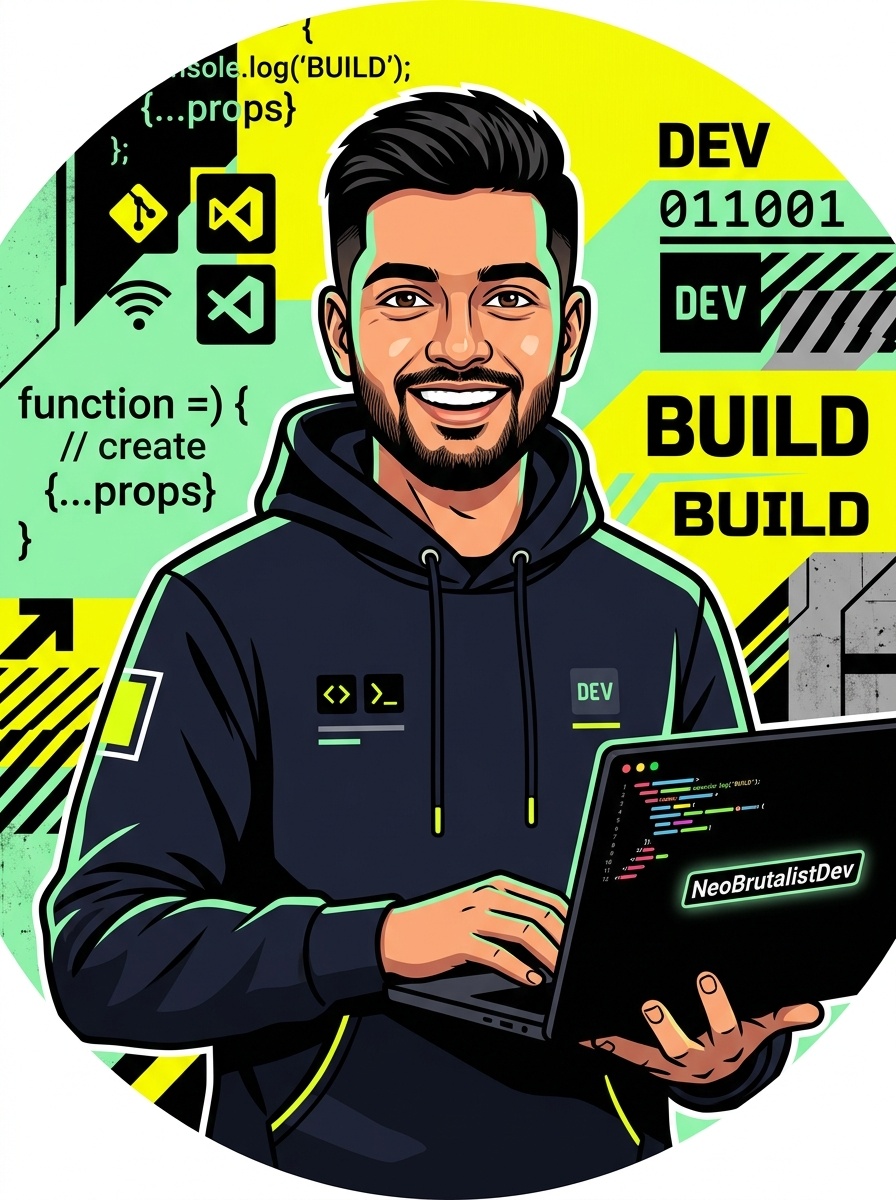
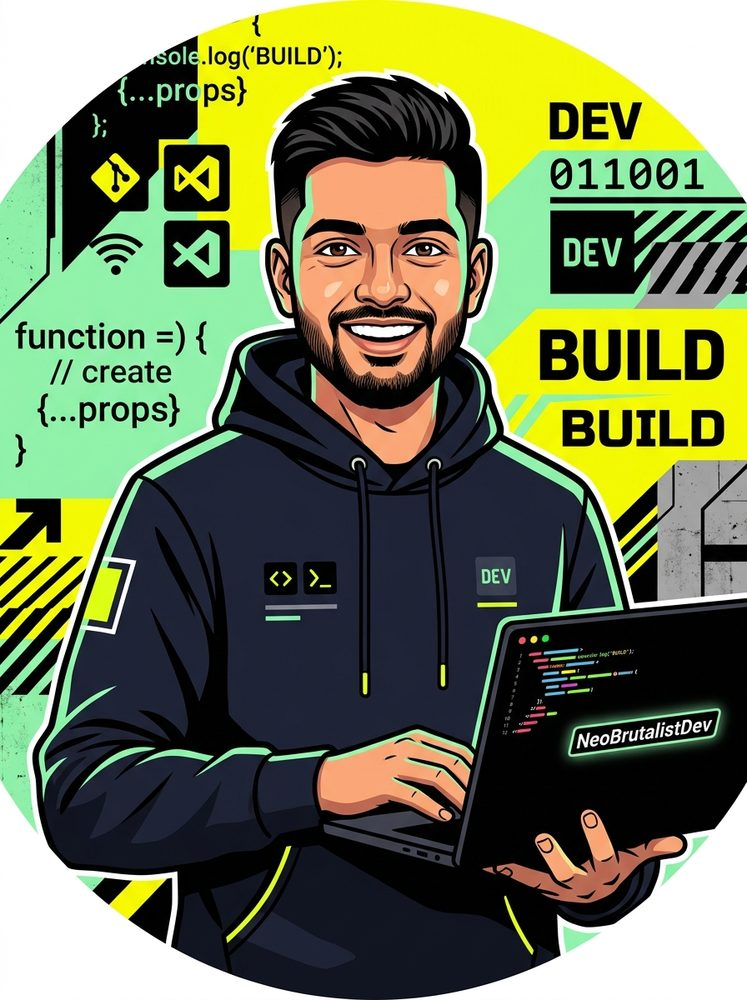
perf: optimize images, eliminate render-blocking fonts, implement SWR db cache, and boost accessibility to 100

diff --git a/src/core/context/PortfolioContext.tsx b/src/core/context/PortfolioContext.tsx
@@ -28,12 +28,52 @@ interface PortfolioContextType {
   skipLoading: () => void;
 }
 
+const STORAGE_KEY = "swaraj_portfolio_live_cache";
+
 const PortfolioContext = createContext<PortfolioContextType | undefined>(undefined);
 
 export const PortfolioProvider: React.FC<{ children: React.ReactNode }> = ({ children }) => {
-  const [data, setData] = useState<PortfolioData | null>(null);
-  const [isLoading, setIsLoading] = useState<boolean>(true);
-  const [isMongoConnected, setIsMongoConnected] = useState<boolean>(false);
+  const [data, setData] = useState<PortfolioData | null>(() => {
+    try {
+      if (typeof window !== "undefined") {
+        const cached = localStorage.getItem(STORAGE_KEY);
+        if (cached) {
+          const parsed = JSON.parse(cached);
+          if (parsed && parsed.personal) return parsed;
+        }
+      }
+    } catch {
+      // Ignore storage read errors
+    }
+    return null;
+  });
+
+  const [isLoading, setIsLoading] = useState<boolean>(() => {
+    try {
+      if (typeof window !== "undefined") {
+        const cached = localStorage.getItem(STORAGE_KEY);
+        if (cached) {
+          const parsed = JSON.parse(cached);
+          if (parsed && parsed.personal) return false;
+        }
+      }
+    } catch {
+      // Fallback to loading
+    }
+    return true;
+  });
+
+  const [isMongoConnected, setIsMongoConnected] = useState<boolean>(() => {
+    try {
+      if (typeof window !== "undefined" && localStorage.getItem(STORAGE_KEY)) {
+        return true;
+      }
+    } catch {
+      // Fallback
+    }
+    return false;
+  });
+
   const [error, setError] = useState<string | null>(null);
 
   const skipLoading = useCallback(() => {
@@ -41,7 +81,13 @@ export const PortfolioProvider: React.FC<{ children: React.ReactNode }> = ({ chi
   }, []);
 
   const fetchPortfolioFromMongo = useCallback(async () => {
-    setIsLoading(true);
+    // Only trigger full loading spinner if we don't already have data rendered
+    setData((current) => {
+      if (!current) {
+        setIsLoading(true);
+      }
+      return current;
+    });
     setError(null);
 
     const controller = new AbortController();
@@ -71,18 +117,30 @@ export const PortfolioProvider: React.FC<{ children: React.ReactNode }> = ({ chi
         setData(mongoData);
         setIsMongoConnected(true);
         setError(null);
+        try {
+          localStorage.setItem(STORAGE_KEY, JSON.stringify(mongoData));
+        } catch {
+          // Ignore quota/storage errors
+        }
       } else {
         throw new Error("Incomplete portfolio document structure in database");
       }
     } catch (err: unknown) {
       const fetchError = err as { name?: string; message?: string };
       console.error("MongoDB Atlas connection error:", fetchError.message || fetchError);
-      setIsMongoConnected(false);
-      setError(
-        fetchError.name === "AbortError"
-          ? "Database connection timed out. The server is waking up, please retry."
-          : "Could not load portfolio from MongoDB database."
-      );
+      
+      // If we don't have any data yet, surface the connection error
+      setData((current) => {
+        if (!current) {
+          setIsMongoConnected(false);
+          setError(
+            fetchError.name === "AbortError"
+              ? "Database connection timed out. The server is waking up, please retry."
+              : "Could not load portfolio from MongoDB database."
+          );
+        }
+        return current;
+      });
     } finally {
       clearTimeout(timeoutId);
       setIsLoading(false);
@@ -115,6 +173,11 @@ export const PortfolioProvider: React.FC<{ children: React.ReactNode }> = ({ chi
       if (response.ok) {
         setData(newData);
         setIsMongoConnected(true);
+        try {
+          localStorage.setItem(STORAGE_KEY, JSON.stringify(newData));
+        } catch {
+          // Ignore
+        }
         return true;
       } else {
         const errJson = await response.json().catch(() => ({}));

diff --git a/src/showcase/components/sections/CertificationsSection.tsx b/src/showcase/components/sections/CertificationsSection.tsx
@@ -21,6 +21,7 @@ import { usePortfolio } from "@/context/PortfolioContext";
 import { Award, ExternalLink, Star, Zap, ChevronLeft, ChevronRight, ChevronDown, ChevronUp } from "lucide-react";
 import FlipCard from "@/showcase/components/common/FlipCard";
 import RevealOnScroll from "@/showcase/components/common/RevealOnScroll";
+import { getOptimizedImageUrl } from "@/core/utils/imageOptimizer";
 
 /* -------------------------------------------------------------------------- */
 /* 1. TYPES & CONSTANTS                                                       */
@@ -115,9 +116,9 @@ export const CertificationsSection = () => {
         {/* --- HEADER & DESKTOP CONTROLS --- */}
         <RevealOnScroll animation="fade-down">
           <div className="flex flex-col md:flex-row items-start md:items-center justify-between mb-12 gap-4">
-            <span className="inline-block neo-border bg-neo-muted px-4 py-2 font-black text-sm uppercase tracking-widest neo-shadow-sm -rotate-1">
+            <h2 className="inline-block neo-border bg-neo-muted px-4 py-2 font-black text-sm uppercase tracking-widest neo-shadow-sm -rotate-1">
               {experience.title} ({items.length})
-            </span>
+            </h2>
 
             {/* Desktop Controls: [< PREV] PAGE X OF Y [NEXT >] */}
             {totalPages > 1 && (
@@ -192,6 +193,7 @@ export const CertificationsSection = () => {
                             target="_blank"
                             rel="noopener noreferrer"
                             className="mt-4 neo-border bg-foreground text-card px-4 py-2 font-black text-sm uppercase tracking-wide neo-btn-press flex items-center justify-center gap-2"
+                            aria-label={`View credential for ${item.role}`}
                             style={{ boxShadow: "4px 4px 0px 0px #FFD93D" }}
                             onClick={(e) => e.stopPropagation()}
                           >
@@ -221,7 +223,11 @@ export const CertificationsSection = () => {
                       <div className="relative w-full flex-1 border-2 border-black bg-black overflow-hidden flex items-center justify-center p-2 my-2">
                         {item.image ? (
                           <img 
-                            src={item.image} 
+                            src={getOptimizedImageUrl(item.image, { width: 600, quality: "auto", format: "auto" })}
+                            loading="lazy"
+                            decoding="async"
+                            width={500}
+                            height={350} 
                             alt={item.role}
                             className="w-full h-full object-contain"
                           />
@@ -240,6 +246,7 @@ export const CertificationsSection = () => {
                             target="_blank"
                             rel="noopener noreferrer"
                             className="border-2 border-black bg-neo-accent hover:bg-black hover:text-white text-black px-4 py-2 font-black text-xs uppercase tracking-widest flex items-center gap-2 shadow-[3px_3px_0px_0px_#000] hover:shadow-[4px_4px_0px_0px_#FFD93D] transition-all"
+                            aria-label={`Open external link for ${item.role}`}
                             onClick={(e) => e.stopPropagation()}
                           >
                             Open Link <ExternalLink className="h-3.5 w-3.5" />

diff --git a/src/showcase/components/sections/ProjectsSection.tsx b/src/showcase/components/sections/ProjectsSection.tsx
@@ -29,6 +29,7 @@ import {
   Terminal
 } from "lucide-react";
 import RevealOnScroll from "@/showcase/components/common/RevealOnScroll";
+import { getOptimizedImageUrl } from "@/core/utils/imageOptimizer";
 
 /* -------------------------------------------------------------------------- */
 /* 1. TYPES & CONSTANTS                                                       */
@@ -193,7 +194,11 @@ export const ProjectsSection = () => {
                     {/* Visual Image Banner */}
                     <div className="relative border-b-4 border-black bg-black h-44 sm:h-48 overflow-hidden">
                       <img
-                        src={project.image}
+                        src={getOptimizedImageUrl(project.image, { width: 600, quality: "auto", format: "auto" })}
+                        loading="lazy"
+                        decoding="async"
+                        width={600}
+                        height={340}
                         alt={project.name}
                         className="w-full h-full object-cover object-top transition-transform duration-700 group-hover:scale-105 opacity-95 group-hover:opacity-100"
                       />
@@ -275,6 +280,7 @@ export const ProjectsSection = () => {
                         {githubLink && githubLink.trim() !== "" && (
                           <a
                             href={githubLink}
+                            aria-label={`View ${project.name} source code on GitHub`}
                             target="_blank"
                             rel="noopener noreferrer"
                             className="flex-1 border-2 border-black bg-black text-white px-3 py-2.5 font-black text-xs uppercase tracking-wider neo-btn-press shadow-[3px_3px_0px_0px_#FF6B6B] hover:bg-neutral-800 flex items-center justify-center gap-1.5 transition-all text-center"
@@ -287,6 +293,7 @@ export const ProjectsSection = () => {
                         {hasValidDeploy && (
                           <a
                             href={deployLink}
+                            aria-label={`View live deployment for ${project.name}`}
                             target="_blank"
                             rel="noopener noreferrer"
                             className="flex-1 border-2 border-black bg-neo-secondary text-black px-3 py-2.5 font-black text-xs uppercase tracking-wider neo-btn-press shadow-[3px_3px_0px_0px_#000] hover:bg-yellow-300 flex items-center justify-center gap-1.5 transition-all text-center"

diff --git a/src/core/utils/imageOptimizer.ts b/src/core/utils/imageOptimizer.ts
@@ -1,0 +1,68 @@
+/**
+ * ==============================================================================
+ * CORE UTILITY: Image Optimizer
+ * ==============================================================================
+ * Dynamically injects Cloudinary transformations for high-performance delivery:
+ * - `f_auto`: Delivers modern WebP / AVIF based on browser support
+ * - `q_auto`: Perceptual quality compression reducing payload up to 95%
+ * - `w_<px>` & `c_limit`: Resizes to display boundaries without upscaling
+ * ==============================================================================
+ */
+
+export interface ImageOptimizationOptions {
+  width?: number;
+  height?: number;
+  quality?: "auto" | "auto:good" | "auto:best" | "auto:eco" | "auto:low" | number;
+  format?: "auto" | "webp" | "avif" | "jpg" | "png";
+  crop?: "limit" | "fill" | "scale" | "fit" | "thumb";
+  gravity?: "auto" | "face" | "center";
+}
+
+/**
+ * Returns an optimized image URL. If the image is hosted on Cloudinary,
+ * dynamic parameters are injected; otherwise, the original URL is preserved.
+ */
+export const getOptimizedImageUrl = (
+  url?: string | null,
+  options: ImageOptimizationOptions = {}
+): string => {
+  if (!url || typeof url !== "string") return "";
+
+  // Cloudinary URL Optimization
+  if (url.includes("res.cloudinary.com") && url.includes("/upload/")) {
+    const {
+      width,
+      height,
+      quality = "auto",
+      format = "auto",
+      crop = "limit",
+      gravity,
+    } = options;
+
+    const parts: string[] = [];
+    if (format) parts.push(`f_${format}`);
+    if (quality) parts.push(`q_${quality}`);
+    if (width) parts.push(`w_${width}`);
+    if (height) parts.push(`h_${height}`);
+    if (width || height) parts.push(`c_${crop}`);
+    if (gravity) parts.push(`g_${gravity}`);
+
+    const transformStr = parts.join(",");
+
+    const uploadPrefix = "/upload/";
+    const uploadIndex = url.indexOf(uploadPrefix);
+    if (uploadIndex !== -1) {
+      const prefix = url.substring(0, uploadIndex + uploadPrefix.length);
+      const rest = url.substring(uploadIndex + uploadPrefix.length);
+
+      // Avoid duplicate transformation injection
+      if (rest.startsWith(transformStr + "/")) {
+        return url;
+      }
+
+      return `${prefix}${transformStr}/${rest}`;
+    }
+  }
+
+  return url;
+};

diff --git a/src/test/imageOptimizer.test.ts b/src/test/imageOptimizer.test.ts
@@ -1,0 +1,34 @@
+import { describe, it, expect } from "vitest";
+import { getOptimizedImageUrl } from "@/core/utils/imageOptimizer";
+
+describe("Image Optimizer Utility", () => {
+  it("returns empty string for null or undefined input", () => {
+    expect(getOptimizedImageUrl(null)).toBe("");
+    expect(getOptimizedImageUrl(undefined)).toBe("");
+    expect(getOptimizedImageUrl("")).toBe("");
+  });
+
+  it("preserves non-Cloudinary image URLs unmodified", () => {
+    const external = "https://images.unsplash.com/photo-123456?auto=format";
+    expect(getOptimizedImageUrl(external)).toBe(external);
+  });
+
+  it("injects f_auto, q_auto and width constraints into Cloudinary URLs", () => {
+    const rawCloudinary = "https://res.cloudinary.com/svshyagm/image/upload/v1789716322/swaraj_portfolio/mdv76ncmpxzpc89q68n1.png";
+    const optimized = getOptimizedImageUrl(rawCloudinary, {
+      width: 500,
+      quality: "auto",
+      format: "auto",
+    });
+
+    expect(optimized).toContain("/upload/f_auto,q_auto,w_500,c_limit/");
+    expect(optimized).toContain("v1789716322/swaraj_portfolio/mdv76ncmpxzpc89q68n1.png");
+  });
+
+  it("does not duplicate transformations if already applied", () => {
+    const rawCloudinary = "https://res.cloudinary.com/svshyagm/image/upload/v1789716322/swaraj_portfolio/mdv76ncmpxzpc89q68n1.png";
+    const once = getOptimizedImageUrl(rawCloudinary, { width: 600 });
+    const twice = getOptimizedImageUrl(once, { width: 600 });
+    expect(twice).toBe(once);
+  });
+});

diff --git a/src/showcase/components/sections/HeroSection.tsx b/src/showcase/components/sections/HeroSection.tsx
@@ -18,6 +18,7 @@ import { useState, useEffect } from "react";
 import { usePortfolio } from "@/context/PortfolioContext";
 import { ArrowRight, Star, Download, Terminal, Cpu, Database } from "lucide-react";
 import defaultHeroImage from "@/assets/swaraj-hero.jpg";
+import { getOptimizedImageUrl } from "@/core/utils/imageOptimizer";
 
 /* -------------------------------------------------------------------------- */
 /* COMPONENT                                                                  */
@@ -142,7 +143,11 @@ export const HeroSection = () => {
           <div className="relative neo-border bg-neo-cream p-3 sm:p-4" style={{ boxShadow: "8px 8px 0px 0px #000" }}>
             <div className="neo-border overflow-hidden">
               <img
-                src={personal.avatar || defaultHeroImage}
+                src={getOptimizedImageUrl(personal.avatar, { width: 500, quality: "auto:good", format: "auto" }) || defaultHeroImage}
+                width={288}
+                height={384}
+                fetchPriority="high"
+                decoding="async"
                 alt={personal.name}
                 className="w-56 h-72 sm:w-72 sm:h-96 object-cover object-top hover:scale-105 transition-all duration-300"
               />

diff --git a/index.html b/index.html
@@ -33,6 +33,15 @@
     <link rel="apple-touch-icon" href="/favicon.svg" />
     <link rel="alternate icon" href="https://www.swarajvecha.in/favicon.svg" />
 
+    <!-- Google Fonts: Space Grotesk (Preconnected & Non-blocking) -->
+    <link rel="preconnect" href="https://fonts.googleapis.com" />
+    <link rel="preconnect" href="https://fonts.gstatic.com" crossorigin />
+    <link rel="stylesheet" href="https://fonts.googleapis.com/css2?family=Space+Grotesk:wght@400;500;700&display=swap" />
+
+    <!-- AI Agent Discoverability (llms.txt & ARD) -->
+    <link rel="alternate" type="text/markdown" href="/llms.txt" title="LLM Documentation" />
+    <link rel="agent" type="application/json" href="/ard.json" />
+
     <script type="application/ld+json">
     {
       "@context": "https://schema.org",

diff --git a/src/showcase/components/sections/ContactSection.tsx b/src/showcase/components/sections/ContactSection.tsx
@@ -157,12 +157,12 @@ export const ContactSection = () => {
         {/* --- SECTION HEADER --- */}
         <RevealOnScroll animation="fade-down">
           <div className="mb-12">
-            <span 
+            <h2 
               className="inline-block neo-border bg-neo-accent px-4 py-2 font-black text-sm uppercase tracking-widest rotate-1 border-card"
               style={{ boxShadow: "8px 8px 0px 0px #fff" }}
             >
               {contact.title}
-            </span>
+            </h2>
           </div>
 
           <p className="font-bold text-xl text-card mb-10 max-w-xl">{contact.copy}</p>

diff --git a/src/showcase/components/sections/AboutSection.tsx b/src/showcase/components/sections/AboutSection.tsx
@@ -63,9 +63,9 @@ export const AboutSection = () => {
         {/* Section Heading Badge */}
         <RevealOnScroll animation="fade-down">
           <div className="mb-12">
-            <span className="inline-block neo-border bg-neo-muted px-4 py-2 font-black text-sm uppercase tracking-widest neo-shadow-sm -rotate-2">
+            <h2 className="inline-block neo-border bg-neo-muted px-4 py-2 font-black text-sm uppercase tracking-widest neo-shadow-sm -rotate-2">
               {about.title}
-            </span>
+            </h2>
           </div>
         </RevealOnScroll>
 

diff --git a/src/index.css b/src/index.css
@@ -1,5 +1,3 @@
-@import url('https://fonts.googleapis.com/css2?family=Space+Grotesk:wght@400;500;700&display=swap');
-
 @tailwind base;
 @tailwind components;
 @tailwind utilities;
